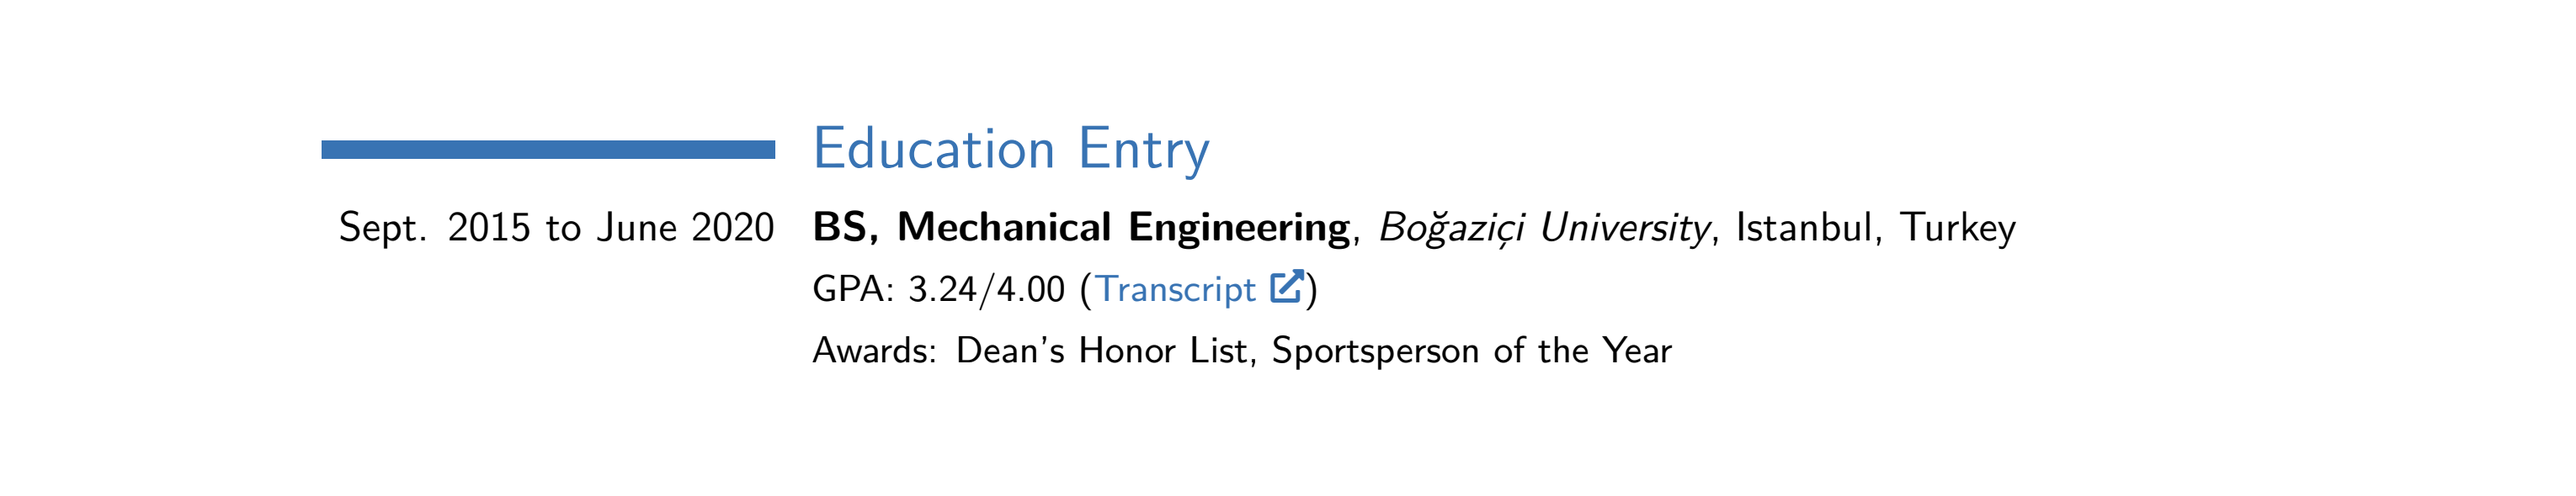
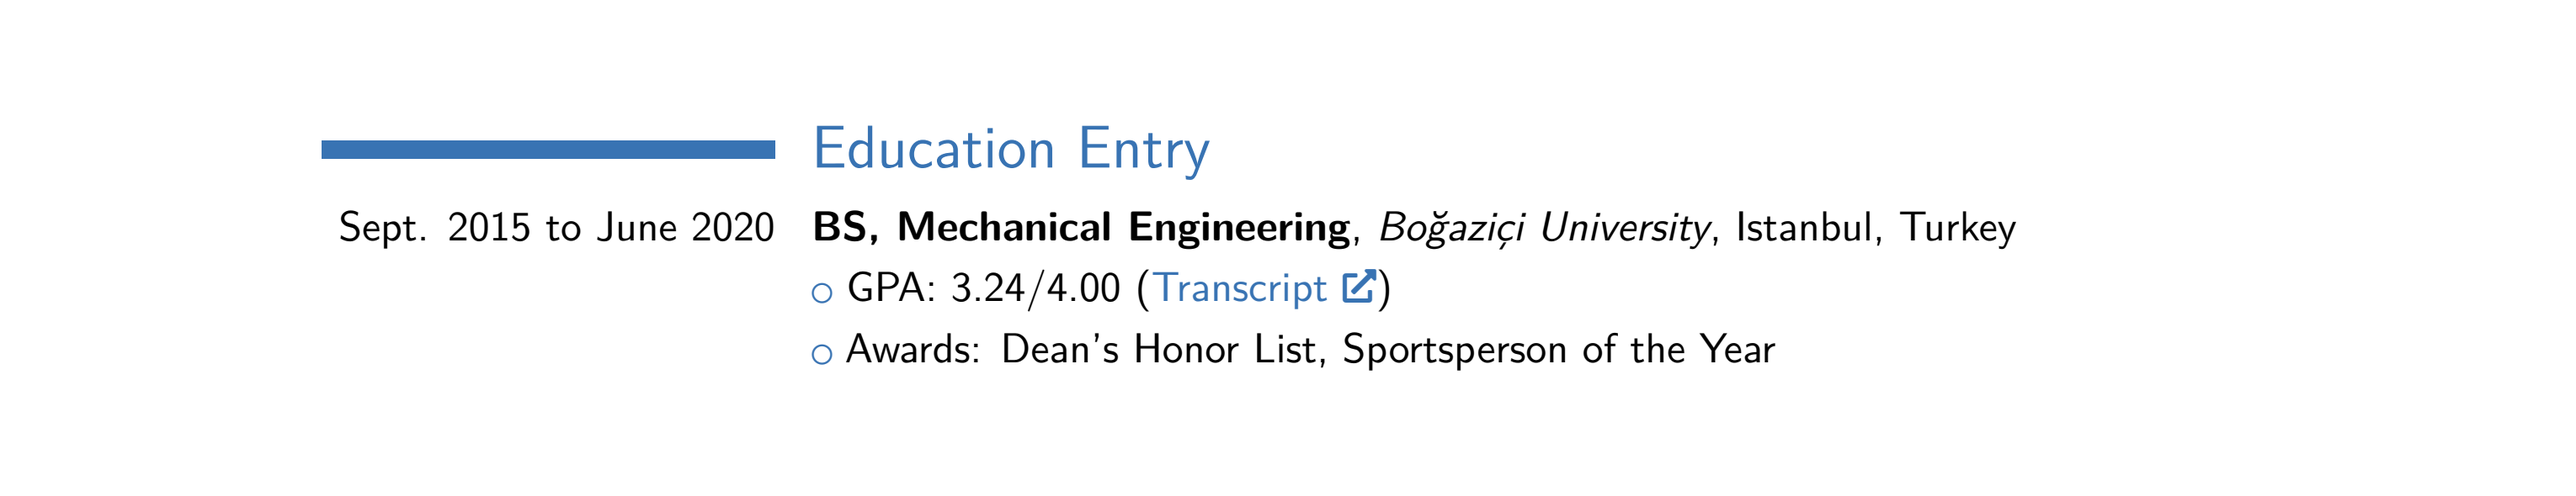
docs: add BulletEntry to user guide

Changed region(s): [[0.3105, 0.6712, 0.683, 0.7322], [0.3105, 0.5492, 0.5588, 0.6102]]

diff --git a/docs/generate_entry_figures_and_examples_and_schema.py b/docs/generate_entry_figures_and_examples_and_schema.py
@@ -105,6 +105,10 @@ one_line_entry = {
     "details": "Python, C++, JavaScript, MATLAB",
 }
 
+bullet_entry = {
+    "bullet": "This is a bullet entry.",
+}
+
 text_entry = (
     "This is a *TextEntry*. It is only a text and can be useful for sections like"
     " **Summary**. To showcase the TextEntry completely, this sentence is added, but it"
@@ -137,6 +141,7 @@ def define_env(env):
         "normal_entry",
         "publication_entry",
         "one_line_entry",
+        "bullet_entry",
         "text_entry",
     ]
 
@@ -162,12 +167,13 @@ def generate_entry_figures():
     """Generate an image for each entry type and theme."""
     # Generate PDF figures for each entry type and theme
     entries = {
-        "education_entry": dm.EducationEntry(**education_entry),
-        "experience_entry": dm.ExperienceEntry(**experience_entry),
-        "normal_entry": dm.NormalEntry(**normal_entry),
-        "publication_entry": dm.PublicationEntry(**publication_entry),
-        "one_line_entry": dm.OneLineEntry(**one_line_entry),
-        "text_entry": f"{text_entry}",
+        # "education_entry": dm.EducationEntry(**education_entry),
+        # "experience_entry": dm.ExperienceEntry(**experience_entry),
+        # "normal_entry": dm.NormalEntry(**normal_entry),
+        # "publication_entry": dm.PublicationEntry(**publication_entry),
+        # "one_line_entry": dm.OneLineEntry(**one_line_entry),
+        # "text_entry": f"{text_entry}",
+        "bullet_entry": dm.BulletEntry(**bullet_entry),
     }
     themes = dm.available_themes
 
@@ -295,5 +301,5 @@ def generate_schema():
 
 if __name__ == "__main__":
     generate_entry_figures()
-    generate_examples()
-    generate_schema()
+    # generate_examples()
+    # generate_schema()
